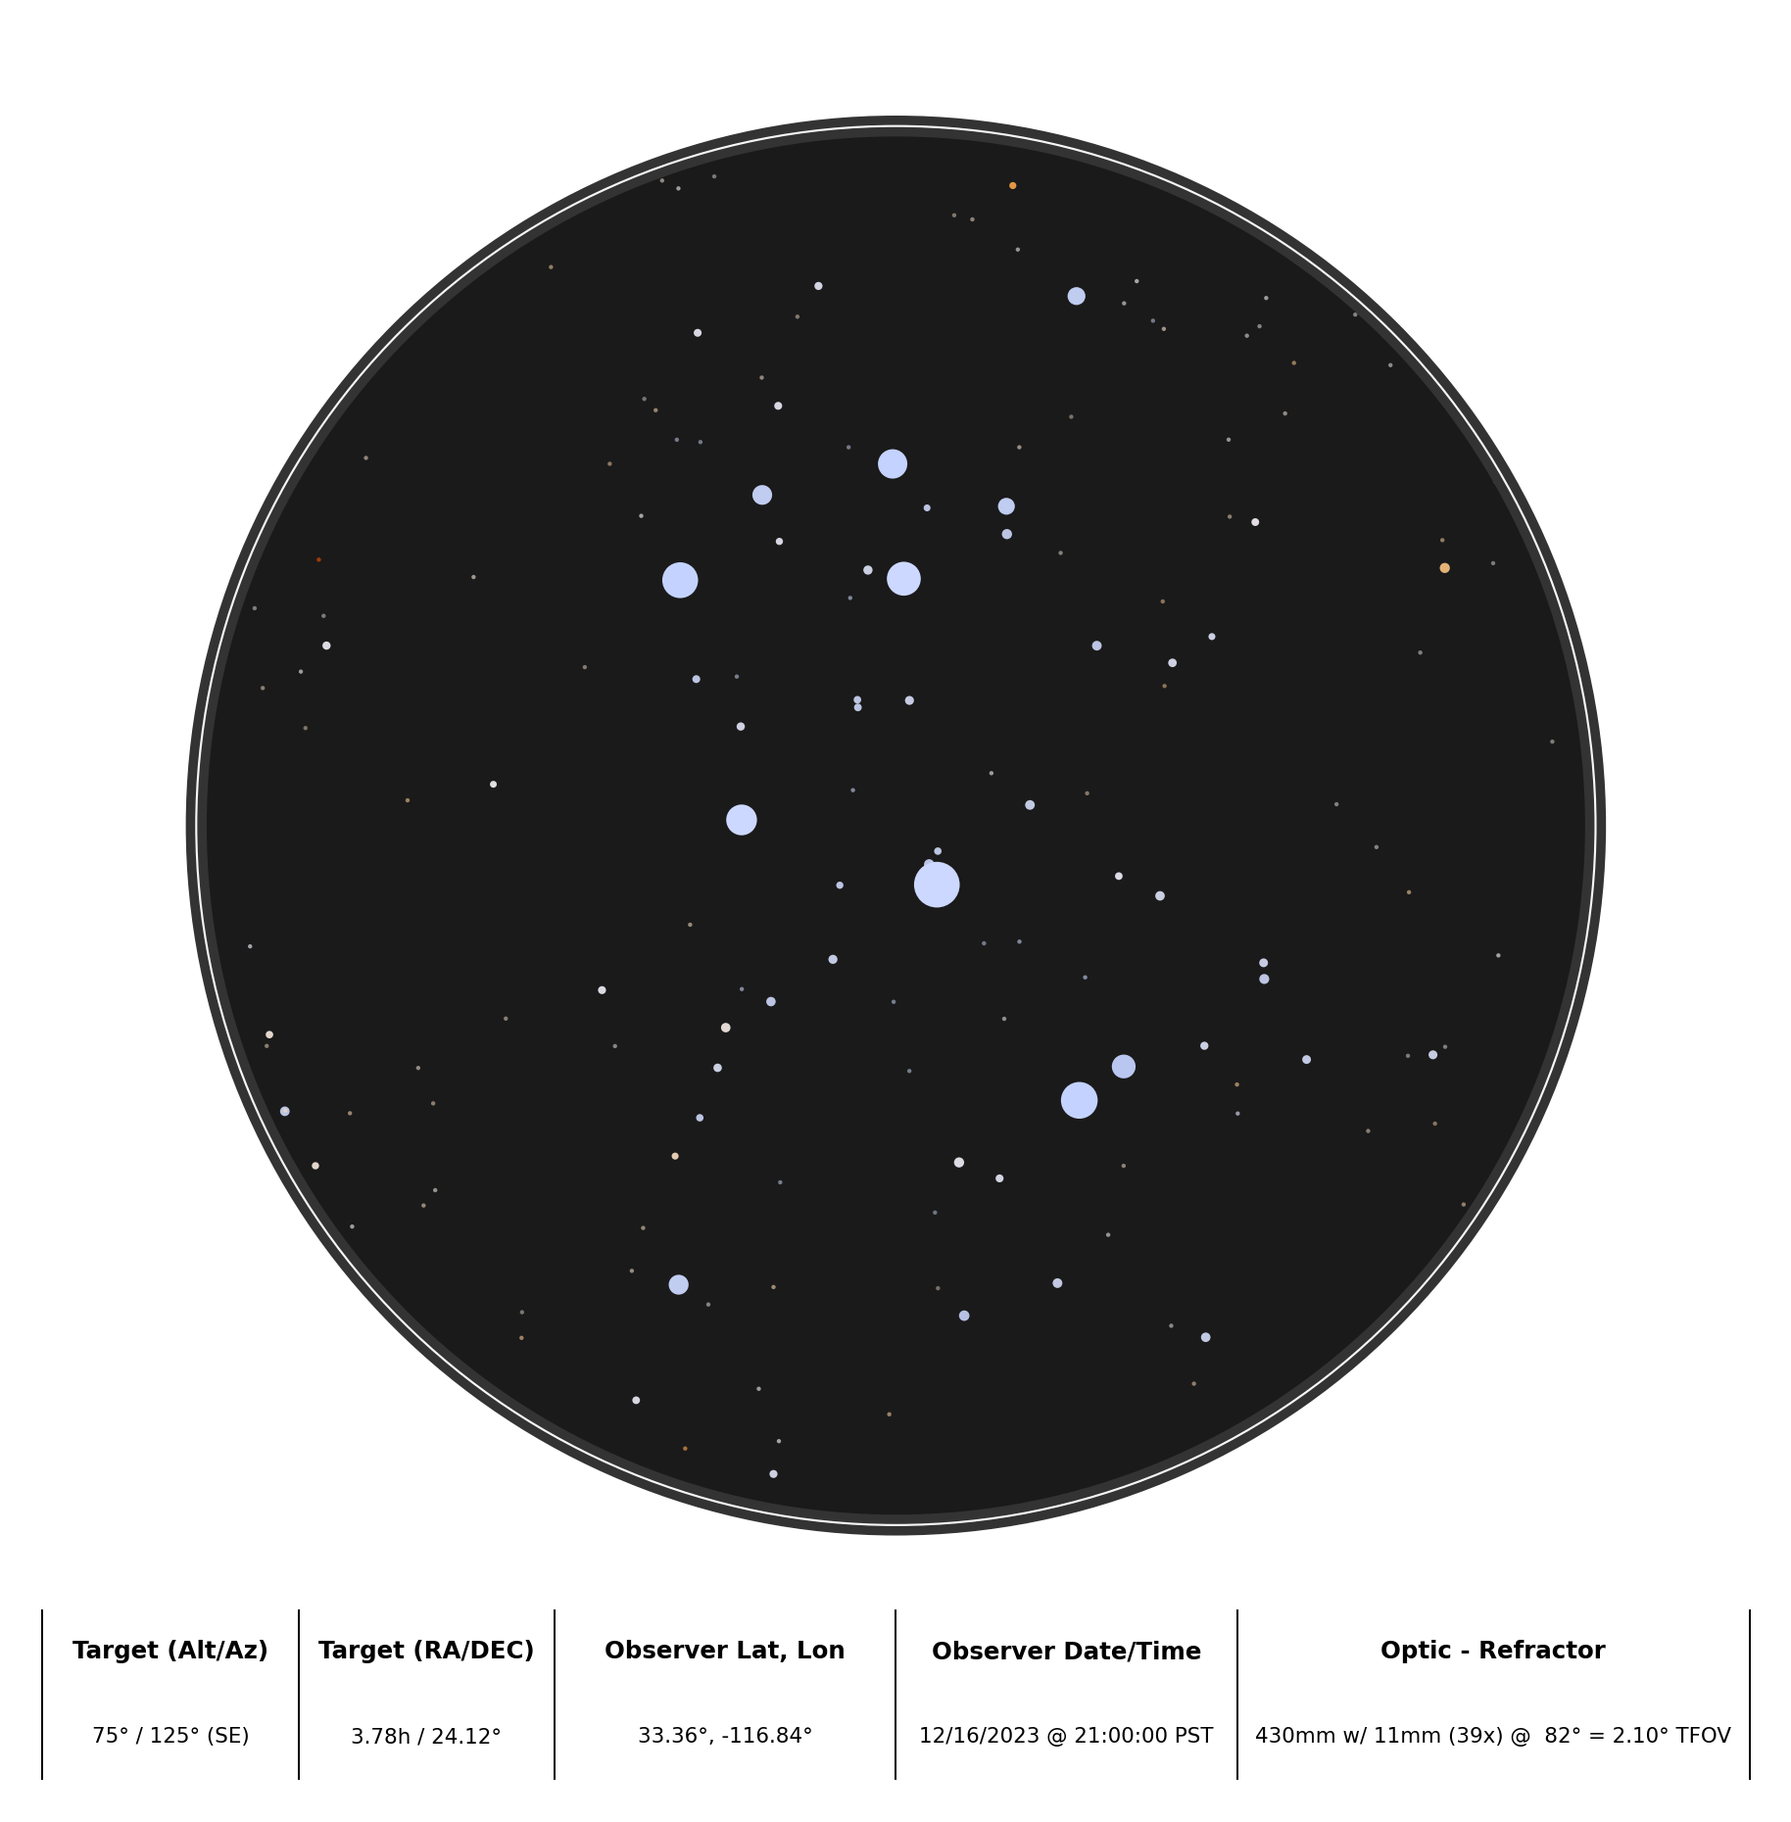
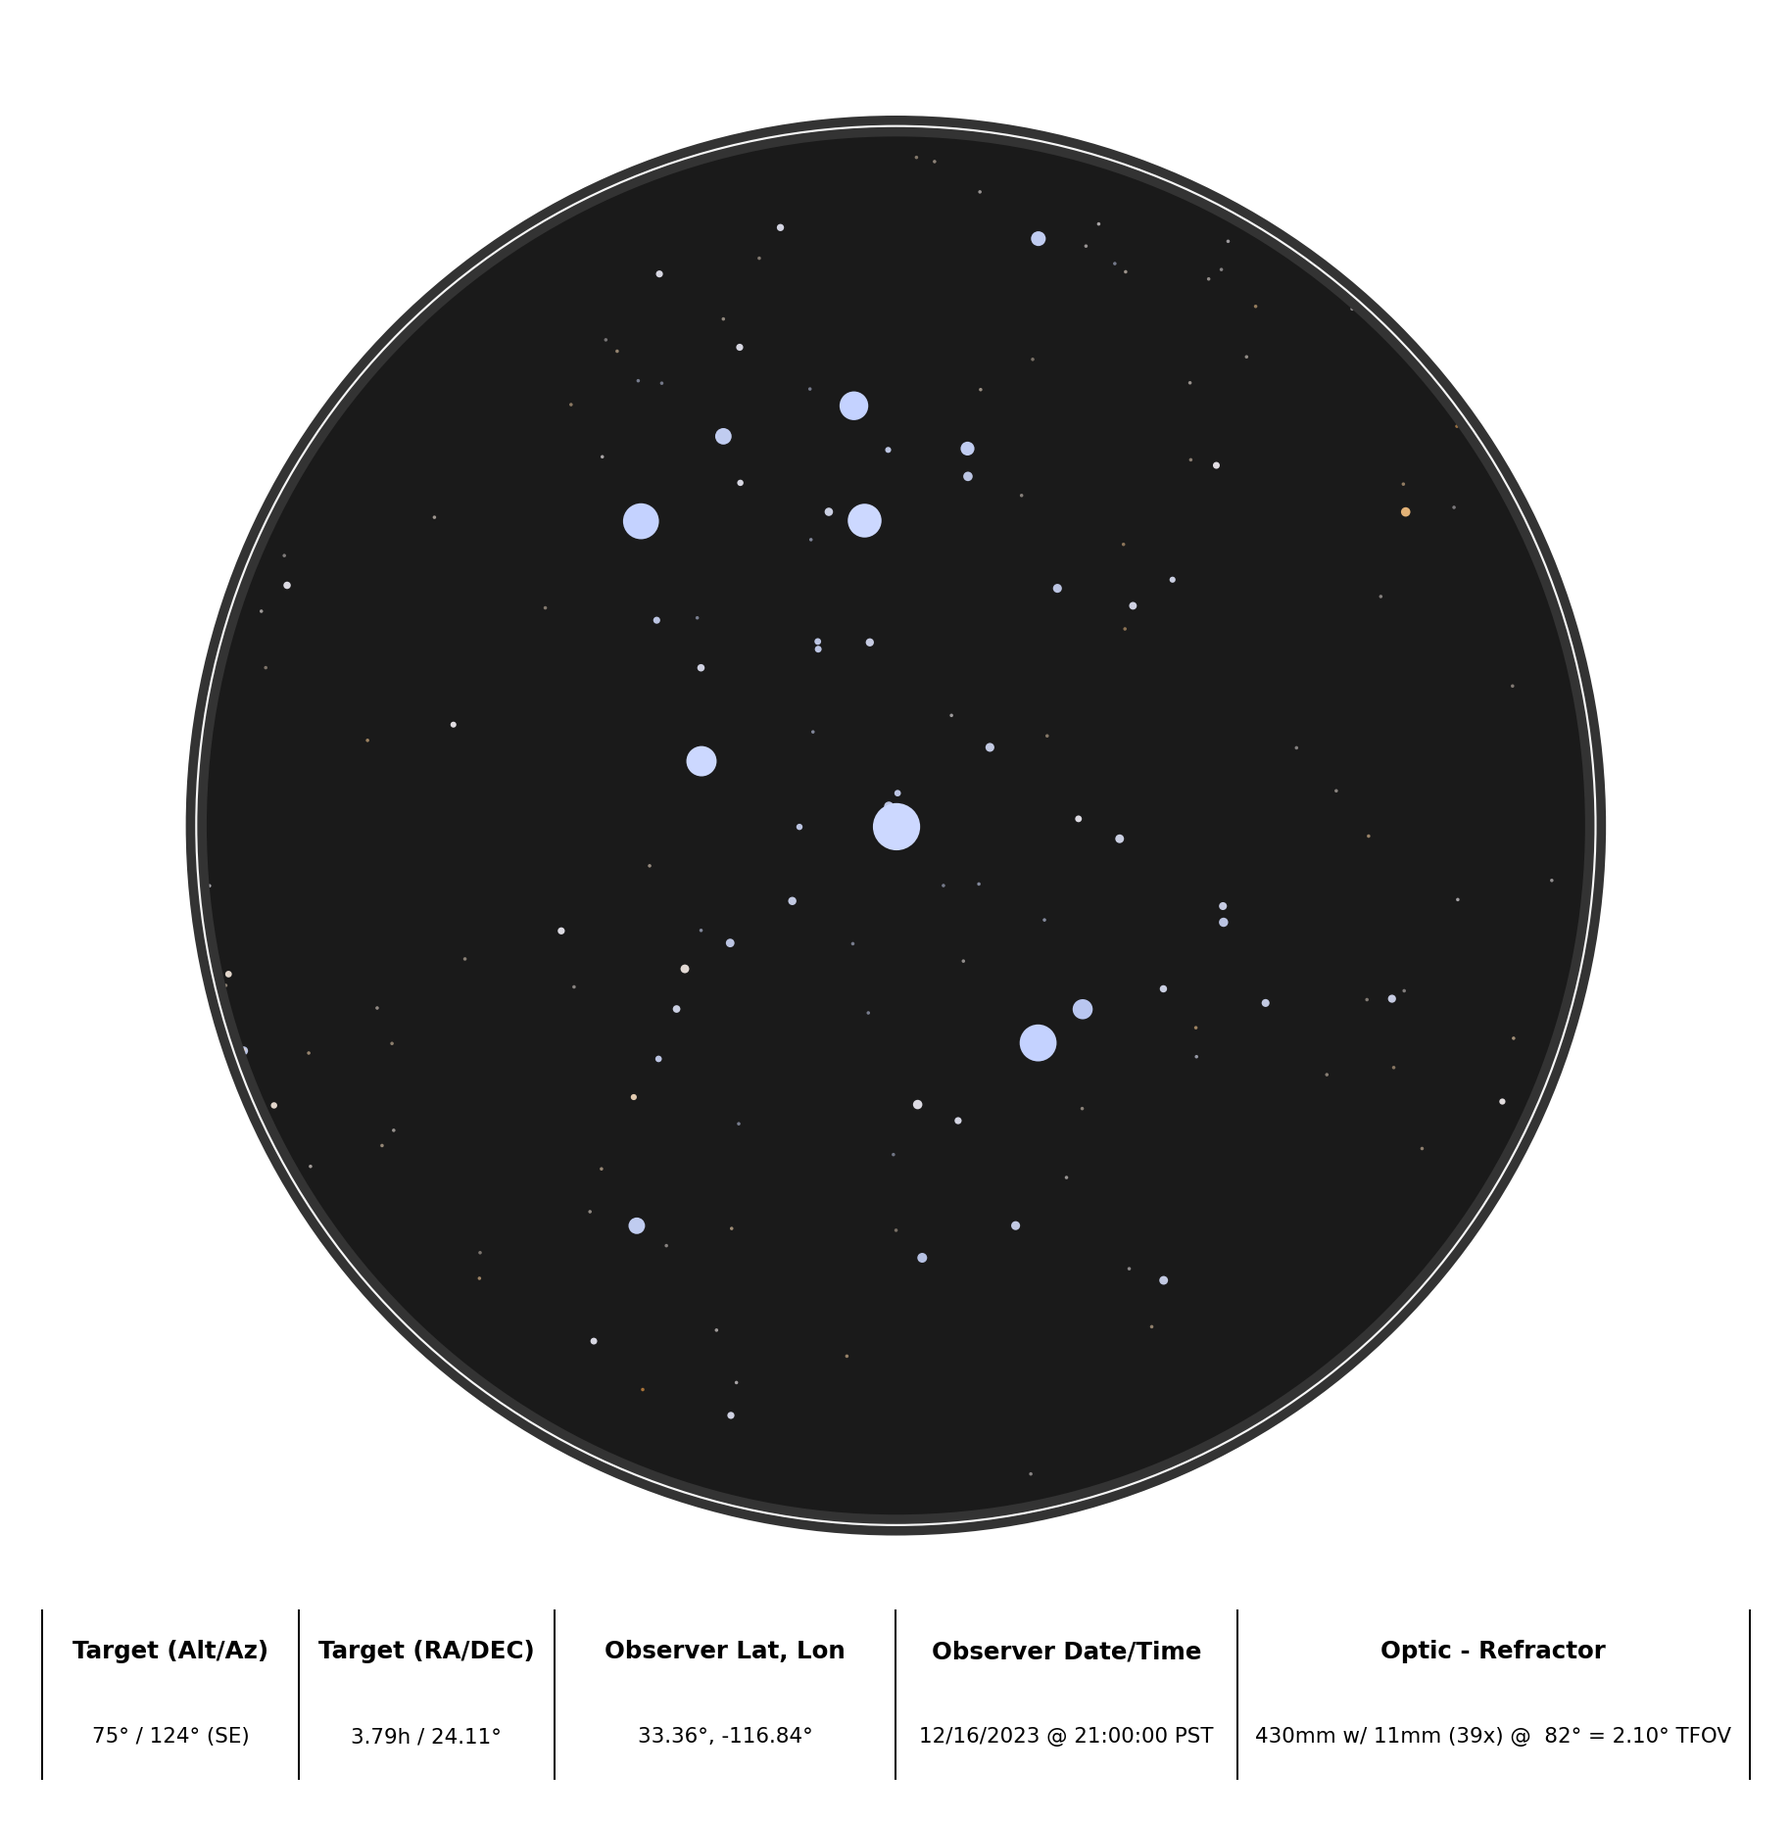
style adjustments and new example

diff --git a/src/starplot/optic.py b/src/starplot/optic.py
@@ -33,6 +33,7 @@ class OpticPlot(StarPlot):
         resolution: Size (in pixels) of largest dimension of the map
         hide_colliding_labels: If True, then labels will not be plotted if they collide with another existing label
         adjust_text: If True, then the labels will be adjusted to avoid overlapping
+        rasterize_stars: If True, then the stars will be rasterized when plotted, which can speed up exporting to SVG and reduce the file size but with a loss of image quality
         colorize_stars: If True, then stars will be filled with their BV color index
         raise_on_below_horizon: If True, then a ValueError will be raised if the target is below the horizon at the observing time/location
 
@@ -59,6 +60,7 @@ class OpticPlot(StarPlot):
         resolution: int = 2048,
         hide_colliding_labels: bool = True,
         adjust_text: bool = False,
+        rasterize_stars: bool = False,
         colorize_stars: bool = False,
         raise_on_below_horizon: bool = True,
         *args,
@@ -73,6 +75,7 @@ class OpticPlot(StarPlot):
             resolution,
             hide_colliding_labels,
             adjust_text,
+            rasterize_stars,
             *args,
             **kwargs,
         )
@@ -180,19 +183,19 @@ class OpticPlot(StarPlot):
                 continue
 
             if m < 4.6:
-                sizes.append((9 - m) ** 3.34 * self._star_size_multiplier)
+                sizes.append((9 - m) ** 3.76 * self._star_size_multiplier)
                 alphas.append(1)
             # elif m < 4.6:
             #     sizes.append((9 - m) ** 3.68 * self._size_multiplier)
             #     alphas.append(1)
             elif m < 5.85:
-                sizes.append((9 - m) ** 3.46 * self._star_size_multiplier)
+                sizes.append((9 - m) ** 3.72 * self._star_size_multiplier)
                 alphas.append(0.94)
             elif m < 9:
-                sizes.append((13 - m) ** 1.62 * self._star_size_multiplier)
+                sizes.append((13 - m) ** 1.91 * self._star_size_multiplier)
                 alphas.append(0.88)
             else:
-                sizes.append(3.72 * self._star_size_multiplier)
+                sizes.append(4.93 * self._star_size_multiplier)
                 alphas.append((16 - m) * 0.09)
 
             if self.colorize_stars:
@@ -211,9 +214,15 @@ class OpticPlot(StarPlot):
                 y,
                 sizes,
                 colors,
-                clip_path=self.background_patch,
                 alpha=alphas,
-                edgecolors="none",
+                marker=self.style.star.marker.symbol,
+                edgecolors=self.style.star.marker.edge_color.as_hex()
+                if self.style.star.marker.edge_color
+                else "none",
+                zorder=self.style.star.marker.zorder,
+                rasterized=self.rasterize_stars,
+
+                clip_path=self.background_patch,
                 **self._plot_kwargs(),
             )
             self._plotted_stars.set_clip_on(True)

diff --git a/tests/test_map.py b/tests/test_map.py
@@ -47,7 +47,7 @@ def map_plot_stereo_north():
 def test_map_plot_mercator_base(map_plot_mercator):
     filename = DATA_PATH / "actual-mercator-base.png"
     map_plot_mercator.export(filename)
-    assert dhash(filename) == "181b1a7e362c6c64"
+    assert dhash(filename) == "193b1a7e362d6474"
     assert colorhash(filename) == "07406000000"
 
 
@@ -77,14 +77,14 @@ def test_map_plot_mercator_with_extra_object(map_plot_mercator):
         )
     )
     map_plot_mercator.export(filename)
-    assert dhash(filename) == "181b1a7e362c6c64"
+    assert dhash(filename) == "193b1a7e2e2d6474"
     assert colorhash(filename) == "07403000000"
 
 
 def test_map_plot_stereo_base(map_plot_stereo_north):
     filename = DATA_PATH / "actual-stereo-north-base.png"
     map_plot_stereo_north.export(filename)
-    assert dhash(filename) == "6476747074343416"
+    assert dhash(filename) == "627664747c383416"
     assert colorhash(filename) == "07e00000000"
 
 
@@ -108,7 +108,7 @@ def test_map_plot_stereo_with_extra_object(map_plot_stereo_north):
         )
     )
     map_plot_stereo_north.export(filename)
-    assert dhash(filename) == "6476747074341416"
+    assert dhash(filename) == "627664747c381416"
     assert colorhash(filename) == "072001c0000"
 
 
@@ -139,7 +139,7 @@ def test_map_plot_with_planets():
     )
     p.export(filename)
 
-    assert dhash(filename) == "ccc8716332b68c1f"
+    assert dhash(filename) == "cc6871633bb68e17"
     assert colorhash(filename) == "07603000000"
 
 
@@ -176,5 +176,31 @@ def test_map_plot_scope_bino_fov():
     p.ax.set_title("M45 :: TV-85 / 14mm @ 82deg, 10x binos @ 65deg")
     p.export(filename, padding=0.3)
 
-    assert dhash(filename) == "0a88a49a9aa488a0"
+    assert dhash(filename) == "0288a69a9aa488a0"
     assert colorhash(filename) == "07200038000"
+
+def test_map_plot_custom_stars():
+    filename = DATA_PATH / "map_custom_stars.png"
+
+    style = styles.PlotStyle().extend(
+        styles.extensions.MINIMAL,
+        styles.extensions.GRAYSCALE,
+        styles.extensions.MAP,
+    )
+    style.star.marker.symbol = "*"
+    style.star.marker.size = 60
+
+    p = MapPlot(
+        projection=Projection.MERCATOR,
+        ra_min=3.6,
+        ra_max=7.8,
+        dec_min=-16,
+        dec_max=24,
+        limiting_magnitude=7.2,
+        style=style,
+        resolution=4000,
+    )
+    p.export(filename, padding=0.3)
+
+    assert dhash(filename) == "1dab2b8eae2e840e"
+    assert colorhash(filename) == "07000000000"

diff --git a/src/starplot/zenith.py b/src/starplot/zenith.py
@@ -55,6 +55,7 @@ class ZenithPlot(StarPlot):
         resolution: Size (in pixels) of largest dimension of the map
         hide_colliding_labels: If True, then labels will not be plotted if they collide with another existing label
         adjust_text: If True, then the labels will be adjusted to avoid overlapping
+        rasterize_stars: If True, then the stars will be rasterized when plotted, which can speed up exporting to SVG and reduce the file size but with a loss of image quality
 
     Returns:
         ZenithPlot: A new instance of a ZenithPlot
@@ -74,6 +75,7 @@ class ZenithPlot(StarPlot):
         resolution: int = 2048,
         hide_colliding_labels: bool = True,
         adjust_text: bool = False,
+        rasterize_stars: bool = False,
         *args,
         **kwargs,
     ) -> "ZenithPlot":
@@ -86,6 +88,7 @@ class ZenithPlot(StarPlot):
             resolution,
             hide_colliding_labels,
             adjust_text,
+            rasterize_stars,
             *args,
             **kwargs,
         )
@@ -171,11 +174,11 @@ class ZenithPlot(StarPlot):
                     continue
 
                 if m < 2:
-                    sizes.append((8 - m) ** 2.56 * (self._star_size_multiplier**2))
+                    sizes.append((8 - m) ** 2.56 * (self._star_size_multiplier))
                 elif m < 8:
-                    sizes.append((8 - m) ** 1.38 * (self._star_size_multiplier**2))
+                    sizes.append((8 - m) ** 1.68 * (self._star_size_multiplier))
                 else:
-                    sizes.append(self._star_size_multiplier**2)
+                    sizes.append(2 * self._star_size_multiplier)
 
                 starpos_x.append(x)
                 starpos_y.append(y)
@@ -184,7 +187,14 @@ class ZenithPlot(StarPlot):
                 starpos_x,
                 starpos_y,
                 sizes,
+                marker=self.style.star.marker.symbol,
                 color=self.style.star.marker.color.as_hex(),
+                edgecolors=self.style.star.marker.edge_color.as_hex()
+                if self.style.star.marker.edge_color
+                else "none",
+                alpha=self.style.star.marker.alpha,
+                zorder=self.style.star.marker.zorder,
+                rasterized=self.rasterize_stars,
                 clip_path=self.background_circle,
             )
 

diff --git a/src/starplot/map.py b/src/starplot/map.py
@@ -67,8 +67,8 @@ class MapPlot(StarPlot):
         resolution: Size (in pixels) of largest dimension of the map
         hide_colliding_labels: If True, then labels will not be plotted if they collide with another existing label
         adjust_text: If True, then the labels will be adjusted to avoid overlapping
-        star_catalog: The catalog of stars to use: "hipparcos" or "tycho-1" -- Hipparcos is the default and has about 10x less stars than Tycho-1 but will also plot much faster
         rasterize_stars: If True, then the stars will be rasterized when plotted, which can speed up exporting to SVG and reduce the file size but with a loss of image quality
+        star_catalog: The catalog of stars to use: "hipparcos" or "tycho-1" -- Hipparcos is the default and has about 10x less stars than Tycho-1 but will also plot much faster
         dso_types: List of Deep Sky Objects (DSOs) types that will be plotted
 
     Returns:
@@ -91,8 +91,8 @@ class MapPlot(StarPlot):
         resolution: int = 2048,
         hide_colliding_labels: bool = True,
         adjust_text: bool = False,
-        star_catalog: stars.StarCatalog = stars.StarCatalog.HIPPARCOS,
         rasterize_stars: bool = False,
+        star_catalog: stars.StarCatalog = stars.StarCatalog.HIPPARCOS,
         dso_types: list[dsos.DsoType] = dsos.DEFAULT_DSO_TYPES,
         *args,
         **kwargs,
@@ -106,6 +106,7 @@ class MapPlot(StarPlot):
             resolution,
             hide_colliding_labels,
             adjust_text,
+            rasterize_stars,
             *args,
             **kwargs,
         )
@@ -115,7 +116,6 @@ class MapPlot(StarPlot):
         self.dec_min = dec_min
         self.dec_max = dec_max
         self.star_catalog = star_catalog
-        self.rasterize_stars = rasterize_stars
         self.dso_types = dso_types
 
         self._geodetic = ccrs.Geodetic()

diff --git a/src/starplot/base.py b/src/starplot/base.py
@@ -23,6 +23,7 @@ class StarPlot(ABC):
         resolution: int = 2048,
         hide_colliding_labels: bool = True,
         adjust_text: bool = False,
+        rasterize_stars: bool = False,
         *args,
         **kwargs,
     ):
@@ -35,6 +36,7 @@ class StarPlot(ABC):
         self.resolution = resolution
         self.hide_colliding_labels = hide_colliding_labels
         self.adjust_text = adjust_text
+        self.rasterize_stars = rasterize_stars
 
         self.dt = dt or timezone("UTC").localize(datetime.now())
         self.ephemeris = ephemeris
@@ -49,7 +51,7 @@ class StarPlot(ABC):
         )
         self._size_multiplier = self.resolution / 3000
         self._star_size_multiplier = (
-            self._size_multiplier * self.style.star.marker.size / 10
+            self._size_multiplier * self.style.star.marker.size / 5
         )
 
         self.timescale = load.timescale().from_datetime(self.dt)

diff --git a/examples/example_06.py b/examples/example_06.py
@@ -1,0 +1,29 @@
+from starplot import MapPlot, Projection
+from starplot.styles import PlotStyle, extensions, MarkerSymbolEnum
+
+style = PlotStyle().extend(
+    extensions.MINIMAL,
+    extensions.GRAYSCALE,
+    extensions.MAP,
+)
+
+style.star.marker.symbol = MarkerSymbolEnum.STAR
+
+# Star sizes are calculated based on their magnitude first,
+# but then that result will be multiplied by the star's marker size in the PlotStyle
+# so, adjusting the star marker size is a way to make all stars bigger or smaller
+style.star.marker.size = 50
+
+p = MapPlot(
+    projection=Projection.STEREO_NORTH,
+    ra_min=10.8,
+    ra_max=14,
+    dec_min=48,
+    dec_max=64,
+    limiting_magnitude=3.6,
+    style=style,
+    resolution=1400,
+    dso_types=[],  # this is one way to hide all deep sky objects
+)
+
+p.export("06_big_dipper_stars.png", padding=0.2)

diff --git a/tests/test_zenith.py b/tests/test_zenith.py
@@ -27,7 +27,7 @@ def test_zenith_plot_base(zenith_plot):
     filename = DATA_PATH / "actual-zenith-base.png"
     zenith_plot.export(filename)
 
-    assert dhash(filename) == "2b71ac848894790f"
+    assert dhash(filename) == "0b71ac848894790f"
     assert colorhash(filename) == "07000000000"
 
 
@@ -42,7 +42,7 @@ def test_zenith_plot_with_extra_objects(zenith_plot):
     zenith_plot.plot_object(obj)
     zenith_plot.export(filename)
 
-    assert dhash(filename) == "2b71ac848894790f"
+    assert dhash(filename) == "0b71ac848894790f"
     assert colorhash(filename) == "07000038000"
 
 
@@ -58,5 +58,5 @@ def test_zenith_plot_with_info_label():
     )
     zp.export(filename)
 
-    assert dhash(filename) == "2b71ac848894794f"
+    assert dhash(filename) == "0b71ac848894794f"
     assert colorhash(filename) == "07000000000"

diff --git a/tests/test_optic.py b/tests/test_optic.py
@@ -155,8 +155,8 @@ def test_optic_plot_camera(optic_style, dt_dec_16):
     filename = DATA_PATH / "actual-optic-camera-m45.png"
     optic_plot.export(filename)
 
-    assert dhash(filename) == "4971517165615175"
-    assert colorhash(filename) == "3ae00010000"
+    assert dhash(filename) == "4971517175614975"
+    assert colorhash(filename) == "3ac00008000"
 
 
 def test_optic_plot_camera_rotated(optic_style, dt_dec_16):
@@ -213,7 +213,7 @@ def test_optic_plot_polaris_binoculars(dt_dec_16):
     filename = DATA_PATH / "actual-optic-binoculars-polaris.png"
     optic_plot.export(filename)
 
-    assert dhash(filename) == "063141cc48610355"
+    assert dhash(filename) == "063140cc48611355"
     assert colorhash(filename) == "07000000000"
 
 

diff --git a/src/starplot/styles/base.py b/src/starplot/styles/base.py
@@ -443,7 +443,7 @@ class PlotStyle(BaseStyle):
 
     # Stars
     star: ObjectStyle = ObjectStyle(
-        marker=MarkerStyle(fill=FillStyleEnum.FULL, zorder=1, size=10, edge_color=None),
+        marker=MarkerStyle(fill=FillStyleEnum.FULL, zorder=1, size=20, edge_color=None),
         label=LabelStyle(font_size=9, font_weight=FontWeightEnum.BOLD, zorder=1),
     )
     """Styling for stars *(see [`ObjectStyle`][starplot.styles.ObjectStyle])*"""

diff --git a/examples/example_04.py b/examples/example_04.py
@@ -19,8 +19,8 @@ p = MapPlot(
     star_catalog="tycho-1",
 )
 p.plot_scope_fov(
-    ra=3.7836111111,
-    dec=24.1166666667,
+    ra=3.7912777778,
+    dec=24.1052777778,
     scope_focal_length=600,
     eyepiece_focal_length=14,
     eyepiece_fov=82,

diff --git a/examples/examples.py b/examples/examples.py
@@ -2,7 +2,7 @@
 
 import subprocess
 
-for n in range(1, 6):
+for n in range(1, 7):
     subprocess.call(f"python example_{n:02}.py", shell=True)
     subprocess.call(f"cp {n:02}*.png ../docs/images/example_{n:02}.png", shell=True)
 

diff --git a/examples/example_05.py b/examples/example_05.py
@@ -14,8 +14,8 @@ style = PlotStyle().extend(
 
 p = OpticPlot(
     # M45
-    ra=3.783611,
-    dec=24.11667,
+    ra=3.7912777778,
+    dec=24.1052777778,
     lat=33.363484,
     lon=-116.836394,
     # Refractor Telescope
